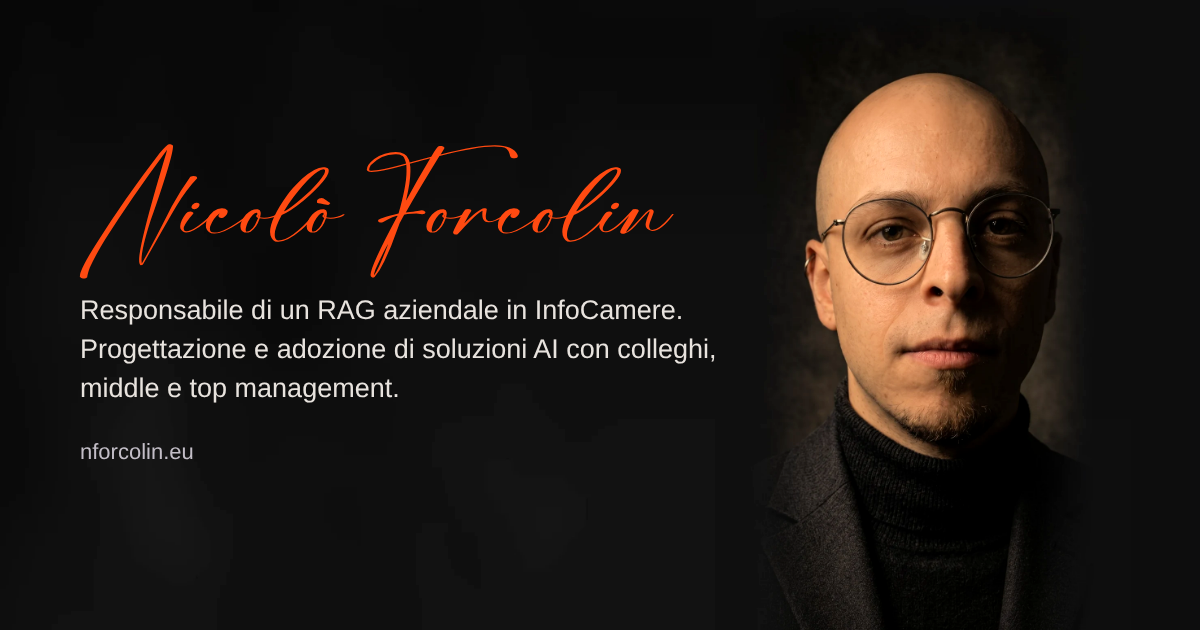
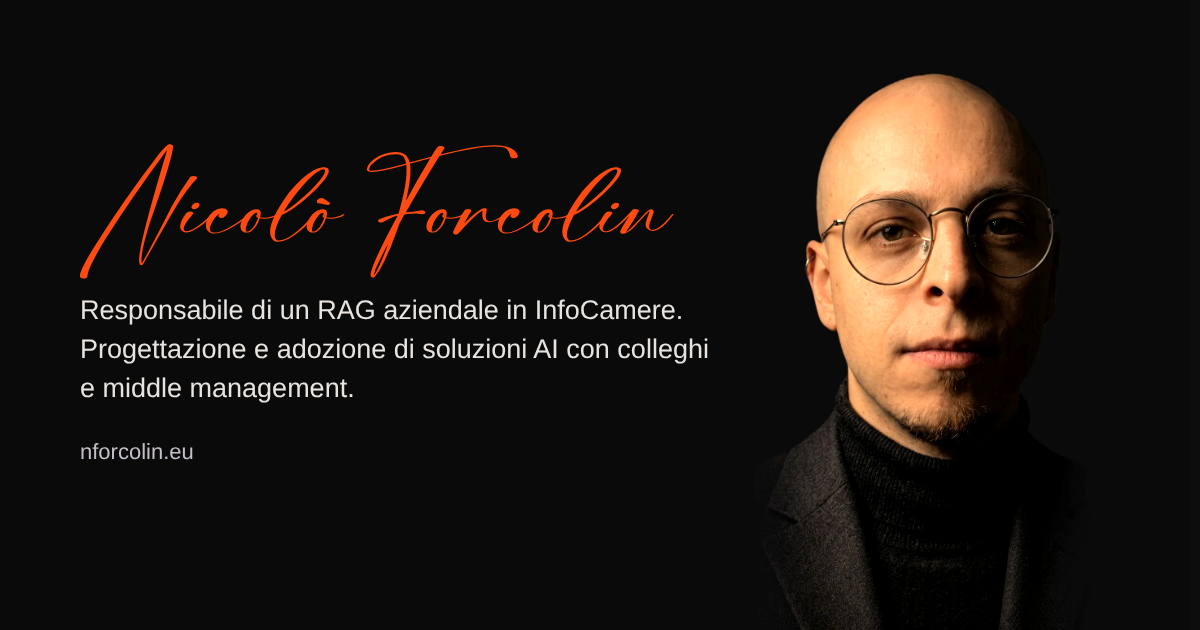
Tolto il top management da tutto il sito (#489)
* Firma scritta a mano su nome e saluto in home

Destiny Signature (sottoinsieme latino, woff2) solo per il nome nella
barra in alto e per il saluto in home; gli altri titoli restano in
Bodoni Moda. Dimensioni e interlinea adattate perché le lettere lunghe
non tocchino il testo sotto.

Claude-Session: https://claude.ai/code/session_0117AcoAoRNxCeiVuVm8eKGz

* Saluto in home senza punto finale

Claude-Session: https://claude.ai/code/session_0117AcoAoRNxCeiVuVm8eKGz

* Home: saluto in arancione, link di testo e striscia senza blocchi laterali

- "Ciao, sono Nicolò Forcolin" nel colore d'accento.
- I due pulsanti diventano link di testo arancioni sottolineati, alti
  almeno 44px; rimosse tutte le regole .hero-btn che li servivano.
- Tolti i due rettangoli arancioni ai lati della striscia dei progetti,
  con le regole CSS e la variabile --rail-width.

Claude-Session: https://claude.ai/code/session_0117AcoAoRNxCeiVuVm8eKGz

* Skyline di Padova in fondo alle pagine interne

Disegno della città sopra la riga del piè di pagina ("Padova, Italia")
su tutte le pagine tranne la home. Firma originale ritagliata via;
il fondo quasi nero del disegno si fonde con quello del sito tramite
mix-blend-mode: lighten.

Claude-Session: https://claude.ai/code/session_0117AcoAoRNxCeiVuVm8eKGz

* Anteprima dei link con lo skyline di Padova

og:image e twitter:image di tutte le pagine puntano a og-padova.jpg
(1200x630, disegno di Padova con la firma). og-image.png resta come
[…]

diff --git a/script.js b/script.js
@@ -58,7 +58,7 @@
       xp5_title:"Advisory e adozione dell’AI",
       xp5_period:"Dal 2025",
       xp4_link:"Leggi il progetto RAG",
-      xp4_desc:"Con il mio Responsabile ho definito le esigenze operative; ho scelto lo strumento, realizzato e messo in produzione due sistemi RAG, li ho unificati e ne seguo fonti, webapp, test e adozione, coordinandomi con altre Unità e con il middle e top management. Oggi lo usano un’intera Unità Operativa, il suo Responsabile e il middle management, e riduce il tempo per gestire una criticità e per l’analisi post evento. In parallelo ho condotto una sperimentazione di modelli AI in locale.",
+      xp4_desc:"Con il mio Responsabile ho definito le esigenze operative; ho scelto lo strumento, realizzato e messo in produzione due sistemi RAG, li ho unificati e ne seguo fonti, webapp, test e adozione, coordinandomi con altre Unità e con il middle management. Oggi lo usano un’intera Unità Operativa, il suo Responsabile e il middle management, e riduce il tempo per gestire una criticità e per l’analisi post evento. In parallelo ho condotto una sperimentazione di modelli AI in locale.",
       xp4_title:"Responsabile del RAG aziendale, InfoCamere",
       xp4_period:"Dal 2026",
       xp3_desc:"Supporto operativo all’infrastruttura IT del sistema camerale italiano, con attenzione all’affidabilità del servizio.",
@@ -83,7 +83,7 @@
       c1_role0_k:"Le mie decisioni:",
       c1_role0_v:"scelta dello strumento.",
       c1_role1_k:"Con il mio Responsabile:",
-      c1_role4_k:"Con altre Unità, middle e top management:",
+      c1_role4_k:"Con altre Unità e il middle management:",
       c1_role4_v:"coordinamento del progetto.",
       case_role_label:"Il mio ruolo",
       enablement_label:"Formazione e adozione",
@@ -109,7 +109,7 @@
       rag_step3_title:"Unificazione e nuove fonti",
       rag_step3_desc:"Un progetto più ampio per ricostruire il contesto.",
       local_step1_title:"Dataset controllati",
-      local_step1_desc:"Dati preparati con il top management per le prove.",
+      local_step1_desc:"Dati preparati con il middle management per le prove.",
       local_step2_title:"Qwen, Gemma e Llama",
       local_step2_desc:"Fine-tuning con Unsloth in un ambiente aziendale.",
       local_step3_title:"Ollama e demo locali",
@@ -162,7 +162,7 @@
       case2_title:"Sperimentazione AI in locale",
       c2_status:"Sperimentazione conclusa nel 2026",
       c2_problem:"Sperimentazione interna informale per valutare modelli specializzati su domande relative a InfoCamere. Le motivazioni erano esplorare un maggiore controllo sui dati, minori costi potenziali e meno dipendenza da fornitori esterni.",
-      c2_solution:"Ho selezionato modelli Qwen, Gemma e Llama tramite Hugging Face. Con dataset specifici preparati insieme al top management ho svolto il fine-tuning con Unsloth in un ambiente aziendale, poi ho eseguito i modelli in locale con Ollama.",
+      c2_solution:"Ho selezionato modelli Qwen, Gemma e Llama tramite Hugging Face. Con dataset specifici preparati insieme al middle management ho svolto il fine-tuning con Unsloth in un ambiente aziendale, poi ho eseguito i modelli in locale con Ollama.",
       c2_learning:"Il fine-tuning ha migliorato le risposte sui temi provati, ma non ha eliminato le informazioni inventate. Il limite emerso è stato distinguere una risposta plausibile da una corretta. Per valutare un impiego operativo servirebbero prove ripetibili, criteri di accettazione e una verifica delle risposte rispetto alle fonti.",
       sec_experiences:"Iniziative",
       dabo_title:"DABO, consulenza e candidatura internazionale",
@@ -260,7 +260,7 @@
       xp5_title:"AI advisory and adoption",
       xp5_period:"Since 2025",
       xp4_link:"Read the RAG project",
-      xp4_desc:"With my manager I defined the operational needs; I chose the tool, built two RAG systems, put them into production and unified them, and I look after their sources, web app, testing and adoption, working with other units and with middle and top management. Today an entire Operating Unit, its Manager and middle management use it, and it cuts the time needed to handle an incident and to analyse it afterwards. In parallel I ran an experiment with local AI models.",
+      xp4_desc:"With my manager I defined the operational needs; I chose the tool, built two RAG systems, put them into production and unified them, and I look after their sources, web app, testing and adoption, working with other units and with middle management. Today an entire Operating Unit, its Manager and middle management use it, and it cuts the time needed to handle an incident and to analyse it afterwards. In parallel I ran an experiment with local AI models.",
       xp4_title:"Enterprise RAG owner, InfoCamere",
       xp4_period:"Since 2026",
       xp3_desc:"Operational support for the IT infrastructure of the Italian Chambers of Commerce system, with a focus on service reliability.",
@@ -285,7 +285,7 @@
       c1_role0_k:"My decisions:",
       c1_role0_v:"choosing the tool.",
       c1_role1_k:"With my manager:",
-      c1_role4_k:"With other units, middle and top management:",
+      c1_role4_k:"With other units and middle management:",
       c1_role4_v:"project coordination.",
       case_role_label:"My role",
       enablement_label:"Training and adoption",
@@ -311,7 +311,7 @@
       rag_step3_title:"Unified system and new sources",
       rag_step3_desc:"A broader project for reconstructing context.",
       local_step1_title:"Controlled datasets",
-      local_step1_desc:"Data prepared with top management for testing.",
+      local_step1_desc:"Data prepared with middle management for testing.",
       local_step2_title:"Qwen, Gemma and Llama",
       local_step2_desc:"Fine-tuning with Unsloth in a company environment.",
       local_step3_title:"Ollama and local demos",
@@ -364,7 +364,7 @@
       case2_title:"Local AI Experiment",
       c2_status:"Experiment completed in 2026",
       c2_problem:"An informal internal experiment to evaluate models specialized in answering questions about InfoCamere, exploring data control, potential cost reductions and less reliance on external providers.",
-      c2_solution:"I selected Qwen, Gemma and Llama models through Hugging Face. Using task-specific datasets prepared with top management, I fine-tuned them with Unsloth in a company environment, then ran the models locally with Ollama.",
+      c2_solution:"I selected Qwen, Gemma and Llama models through Hugging Face. Using task-specific datasets prepared with middle management, I fine-tuned them with Unsloth in a company environment, then ran the models locally with Ollama.",
       c2_learning:"Fine-tuning improved responses on the topics tested, but did not eliminate fabricated information. The limitation was distinguishing a plausible answer from a correct one. Assessing operational use would require repeatable evaluations, acceptance criteria and checks against source material.",
       sec_experiences:"Initiatives",
       dabo_title:"DABO, advisory and international bid",

diff --git a/ai-in-locale.html b/ai-in-locale.html
@@ -74,14 +74,14 @@
     <section class="lab-section lab-how" aria-labelledby="labHowTitle">
       <div class="lab-how-text">
         <h2 class="lab-heading" id="labHowTitle" data-i18n="case_how_label">Come funziona</h2>
-        <p data-i18n="c2_solution">Ho selezionato modelli Qwen, Gemma e Llama tramite Hugging Face. Con dataset specifici preparati insieme al top management ho svolto il fine-tuning con Unsloth in un ambiente aziendale, poi ho eseguito i modelli in locale con Ollama.</p>
+        <p data-i18n="c2_solution">Ho selezionato modelli Qwen, Gemma e Llama tramite Hugging Face. Con dataset specifici preparati insieme al middle management ho svolto il fine-tuning con Unsloth in un ambiente aziendale, poi ho eseguito i modelli in locale con Ollama.</p>
         <p data-i18n="local_how_privacy">Le richieste vengono elaborate in locale, senza inviare dati all’esterno.</p>
         <p class="lab-note" data-i18n="local_how_note">Lo schema riassume le fasi della sperimentazione, senza riferimenti a configurazioni interne.</p>
       </div>
       <ol class="lab-flow" aria-label="Fasi della sperimentazione" data-i18n-aria="local_flow_aria">
           <li class="lab-stage">
             <svg viewBox="0 0 120 100" fill="none" stroke="currentColor" stroke-width="1.25" aria-hidden="true" focusable="false"><path class="o s" d="M56 6h26l8 8v50H56z"/><path class="s" d="M82 6v8h8"/><path class="o" d="M44 14h26l8 8v50H44z"/><path d="M70 14v8h8"/><path class="o" d="M32 24h30l8 8v56H32z"/><path d="M62 24v8h8"/><path class="s" d="M40 44h22M40 52h18M40 60h22M40 68h14"/></svg>
-            <p class="lab-caption"><span data-i18n="local_step1_title">Dataset controllati</span> <span class="lab-caption-desc" data-i18n="local_step1_desc">Dati preparati con il top management per le prove.</span></p>
+            <p class="lab-caption"><span data-i18n="local_step1_title">Dataset controllati</span> <span class="lab-caption-desc" data-i18n="local_step1_desc">Dati preparati con il middle management per le prove.</span></p>
           </li>
           <li class="lab-stage">
             <svg viewBox="0 0 120 100" fill="none" stroke="currentColor" stroke-width="1.25" aria-hidden="true" focusable="false"><rect class="o" x="40" y="6" width="40" height="88" rx="2"/><path class="s" d="M50 22h20M50 32h20M50 52h20M50 62h20M50 72h14"/><path class="h" d="M50 42h20"/></svg>

diff --git a/percorso.html b/percorso.html
@@ -104,7 +104,7 @@
       <p class="page-block-label" data-i18n="xp4_period">Dal 2026</p>
       <div class="page-block-body">
         <h2 class="item-title" data-i18n="xp4_title">Responsabile del RAG aziendale, InfoCamere</h2>
-        <p data-i18n="xp4_desc">Con il mio Responsabile ho definito le esigenze operative; ho scelto lo strumento, realizzato e messo in produzione due sistemi RAG, li ho unificati e ne seguo fonti, webapp, test e adozione, coordinandomi con altre Unità e con il middle e top management. Oggi lo usano un’intera Unità Operativa, il suo Responsabile e il middle management, e riduce il tempo per gestire una criticità e per l’analisi post evento. In parallelo ho condotto una sperimentazione di modelli AI in locale.</p>
+        <p data-i18n="xp4_desc">Con il mio Responsabile ho definito le esigenze operative; ho scelto lo strumento, realizzato e messo in produzione due sistemi RAG, li ho unificati e ne seguo fonti, webapp, test e adozione, coordinandomi con altre Unità e con il middle management. Oggi lo usano un’intera Unità Operativa, il suo Responsabile e il middle management, e riduce il tempo per gestire una criticità e per l’analisi post evento. In parallelo ho condotto una sperimentazione di modelli AI in locale.</p>
         <p class="item-link"><a href="rag-aziendale.html" data-i18n="xp4_link">Leggi il progetto RAG</a></p>
       </div>
     </li>

diff --git a/rag-aziendale.html b/rag-aziendale.html
@@ -84,7 +84,7 @@
         <ul class="role-list">
           <li><strong data-i18n="c1_role0_k">Le mie decisioni:</strong> <span data-i18n="c1_role0_v">scelta dello strumento.</span></li>
           <li><strong data-i18n="c1_role1_k">Con il mio Responsabile:</strong> <span data-i18n="c1_role1_v">definizione delle esigenze operative.</span></li>
-          <li><strong data-i18n="c1_role4_k">Con altre Unità, middle e top management:</strong> <span data-i18n="c1_role4_v">coordinamento del progetto.</span></li>
+          <li><strong data-i18n="c1_role4_k">Con altre Unità e il middle management:</strong> <span data-i18n="c1_role4_v">coordinamento del progetto.</span></li>
           <li><strong data-i18n="c1_role3_k">Con gli utenti:</strong> <span data-i18n="c1_role3_v">test, gestione dei problemi, raccolta dei feedback e adozione.</span></li>
           <li><strong data-i18n="c1_role2_k">In prima persona:</strong> <span data-i18n="c1_role2_v">implementazione e messa in produzione dei due sistemi RAG, loro unificazione, integrazione delle fonti, webapp, logica delle risposte e manuale operativo.</span></li>
         </ul>
